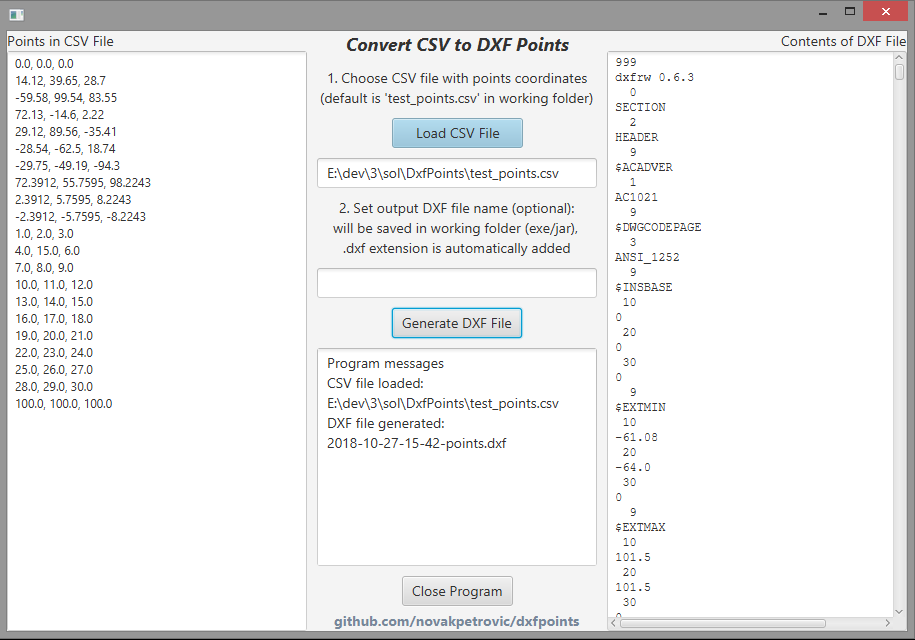
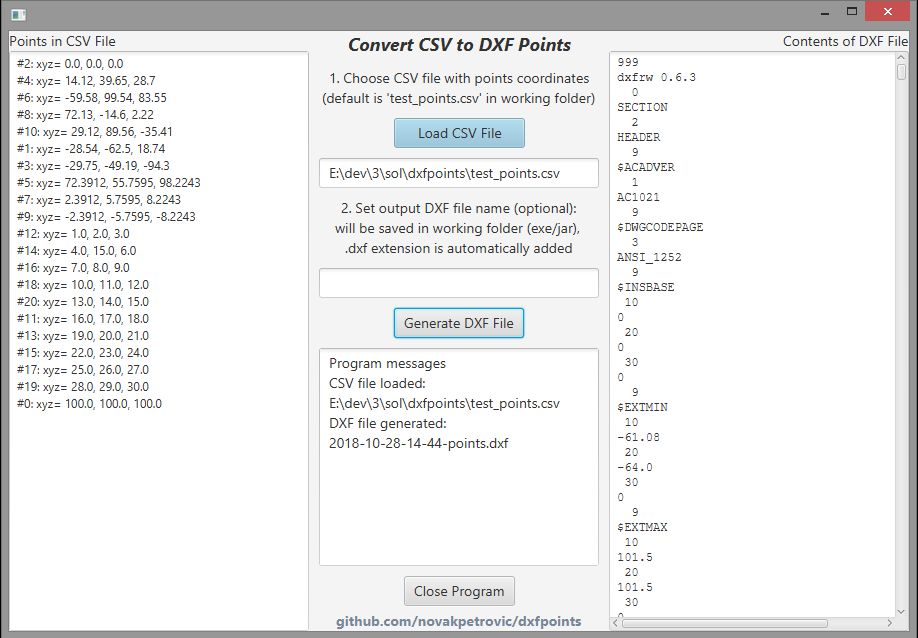
Added dxfpoints-0-2.zip for the latest release Updated README for the new version. Changed contents of the left CSV panel First element in CSV file is point number Removed 0.4 circles from points (manual) Changed $PDSIZE to 0.4 in partC.txt Changed $PDMODE to 32 in partC.txt Changed current layer se

Changed region(s): [[0.0, 0.0, 1.0, 1.0], [0.3366, 0.0596, 0.6426, 0.7147], [0.6732, 0.0893, 0.7344, 0.268]]

diff --git a/src/dxfpoints/ReaderWriter.java b/src/dxfpoints/ReaderWriter.java
@@ -37,24 +37,24 @@ public class ReaderWriter {
         BufferedReader br = null;
         DxfPoint dxfPt;
         File fin = new File(inputCsvFileName);
-        int pointNumber = 1;
         String str = null;
+        String strN = null;
         String strX = null;
         String strY = null;
         String strZ = null;
         try {
             br = new BufferedReader(new InputStreamReader(new FileInputStream(fin), "UTF-8"));
             while ((str = br.readLine()) != null) {
-                strX = str.split(",")[0];
-                strY = str.split(",")[1];
-                strZ = str.split(",")[2];
+                strN = str.split(",")[0];
+                strX = str.split(",")[1];
+                strY = str.split(",")[2];
+                strZ = str.split(",")[3];
                 dxfPt = new DxfPoint(
-                        pointNumber,
+                        Integer.parseInt(strN),
                         Double.parseDouble(strX),
                         Double.parseDouble(strY),
                         Double.parseDouble(strZ));
                 dxfPts.add(dxfPt);
-                pointNumber++;
             }
             br.close();
         } catch (IOException e) {
@@ -105,16 +105,16 @@ public class ReaderWriter {
                 bw.write("\n");
             }
             br.close();
-            // Write points, circles, and two text boxes
+            // Write points and two text boxes
             for (DxfPoint el : dxfPts) {
                 // Points
                 bw.write(el.dxfPointString());
                 bw.write("\n");
                 DxfDoc.hexEntityCounter++;
-                // Circles
-                bw.write(el.dxfPointCircleString());
-                bw.write("\n");
-                DxfDoc.hexEntityCounter++;
+                // Circles are no longer required
+                //bw.write(el.dxfPointCircleString());
+                //bw.write("\n");
+                //DxfDoc.hexEntityCounter++;
                 // Point Numbers
                 bw.write(el.dxfPointNumberString());
                 bw.write("\n");

diff --git a/src/dxfpoints/DxfPoint.java b/src/dxfpoints/DxfPoint.java
@@ -66,7 +66,9 @@ public class DxfPoint {
             " 10\n" +
             String.valueOf(this.x) + "\n" +
             " 20\n" +   
-            String.valueOf(this.y);
+            String.valueOf(this.y) + "\n" +
+            " 30\n" +
+            String.valueOf(this.z);
             // Note: we don't put \n here, but in ReaderWriter
     }
     
@@ -199,7 +201,7 @@ public class DxfPoint {
             // Note: we don't put \n here, but in ReaderWriter
     }
     
-    public double getPointNumber() {
+    public int getPointNumber() {
         return pointNumber;
     }
 

diff --git a/src/dxfpoints/FXMLDocumentController.java b/src/dxfpoints/FXMLDocumentController.java
@@ -105,6 +105,9 @@ public class FXMLDocumentController implements Initializable {
         dxfPts = rw.readCsv(str1);
         String str2 = "";
         for (DxfPoint el: dxfPts) {
+            str2 += "#";
+            str2 += el.getPointNumber();
+            str2 += ": xyz= ";
             str2 += el.getX() + ", ";
             str2 += el.getY() + ", ";
             str2 += el.getZ() + "\n";

diff --git a/src/dxfpoints/DxfPoints.java b/src/dxfpoints/DxfPoints.java
@@ -39,3 +39,5 @@ public class DxfPoints extends Application {
 // TODO Check how many decimal points in coordinates
 // TODO Change current layer to 0
 // TODO Only have one reading of CSV file
+// TODO Change the picture in README file
+// TODO Add resulting DXF file to README as further illustration

diff --git a/README.md b/README.md
@@ -2,5 +2,11 @@ Usage is self-explanatory:
 
 ![dxfpoints screenshot](dxfpoints-screenshot.png?raw=true "dxfpoints screenshot")
 
+A portion of the sample DXF (test_points.dxf) is shown below:
+
+![dxfpoints output](dxfpoints-output.png?raw=true "dxfpoints output")
+
 The utility was made for a particular purpose, with particular settings and required behavior.
-All of those are easy to change and adapt if required.
+All of those are easy to change and adapt as required.
+
+For Windows executable, choose appropriate version from the `zip` folder.
